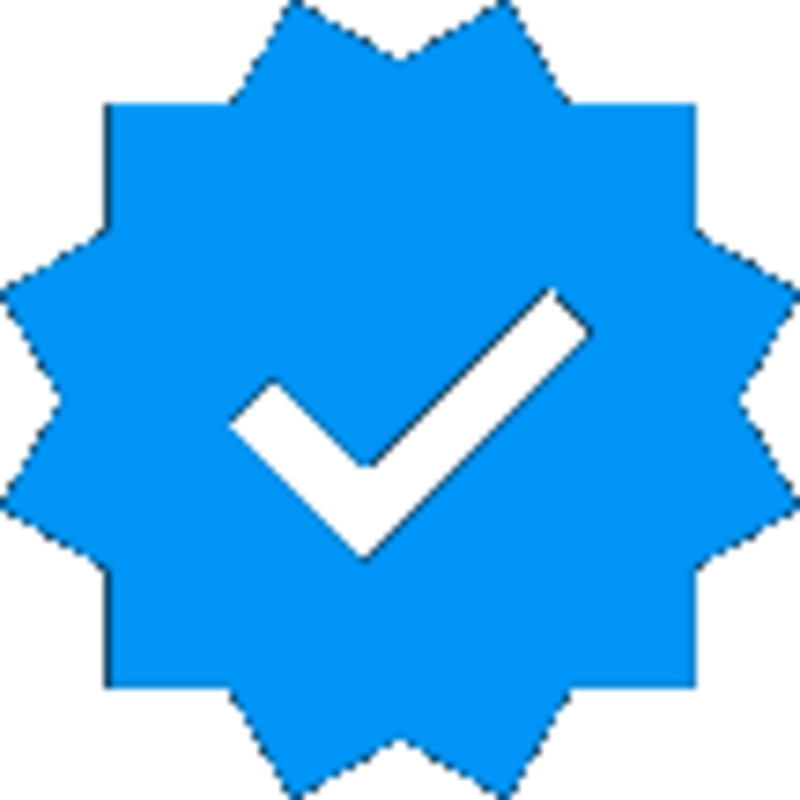
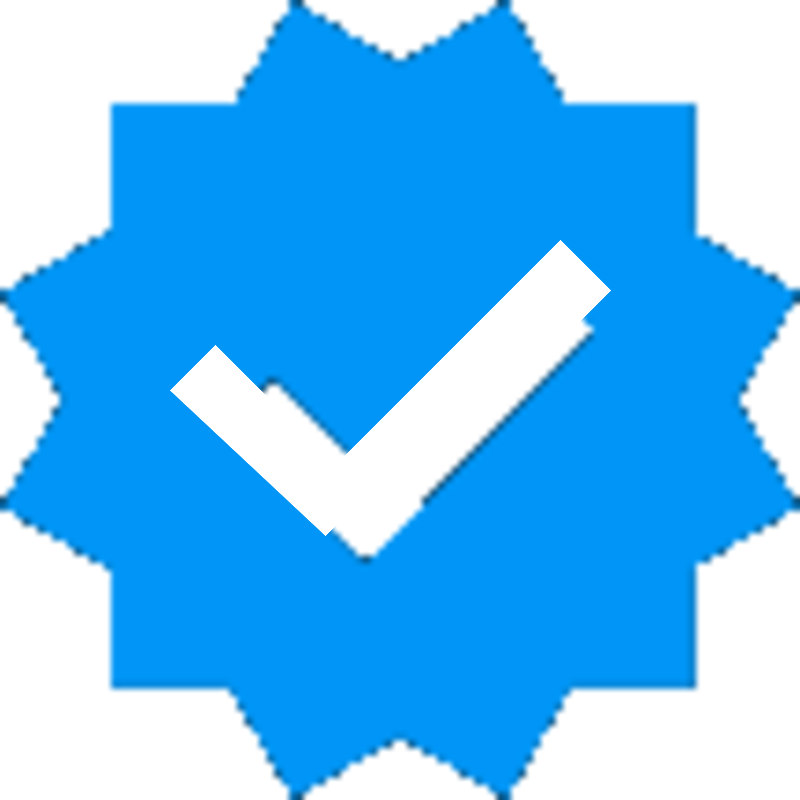
Clean supplied Instagram verification badge

diff --git a/michias-tegegne/index.html b/michias-tegegne/index.html
@@ -195,7 +195,7 @@
         <section class="instagram-profile-section" aria-label="Michias Tegegne on Instagram">
           <a class="instagram-profile-banner" href="https://www.instagram.com/michiastegegne/" target="_blank" rel="noopener noreferrer">
             <img class="instagram-profile-avatar" src="/assets/images/michias-instagram-profile.webp" alt="Michias Tegegne Instagram profile photo" width="100" height="100" />
-            <span class="instagram-profile-copy"><span class="caps">Instagram</span><strong>MICHIAS TEGEGNE® | FILMMAKER <span class="instagram-verified"><img src="/assets/images/instagram-verified-badge.png" alt="Verified Instagram profile" width="800" height="800" /></span></strong><span class="instagram-profile-handle">@michiastegegne</span></span>
+            <span class="instagram-profile-copy"><span class="caps">Instagram</span><strong>MICHIAS TEGEGNE® | FILMMAKER <span class="instagram-verified"><img src="/assets/images/instagram-verified-badge.png?v=2e2a49b-white-check-1" alt="Verified Instagram profile" width="800" height="800" /></span></strong><span class="instagram-profile-handle">@michiastegegne</span></span>
             <span class="instagram-profile-stats"><span><strong>1,998</strong> followers</span><span><strong>36</strong> posts</span><span><strong>248</strong> following</span></span>
             <span class="instagram-profile-open">Open Instagram <span class="icon icon-up-right" aria-hidden="true"></span></span>
           </a>
